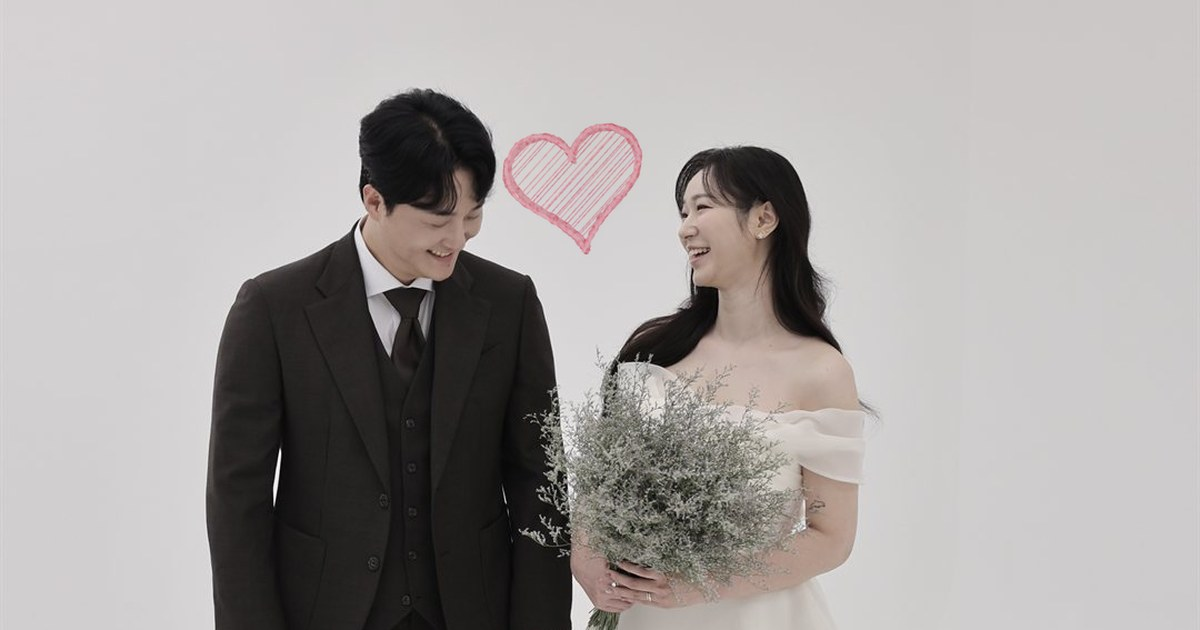
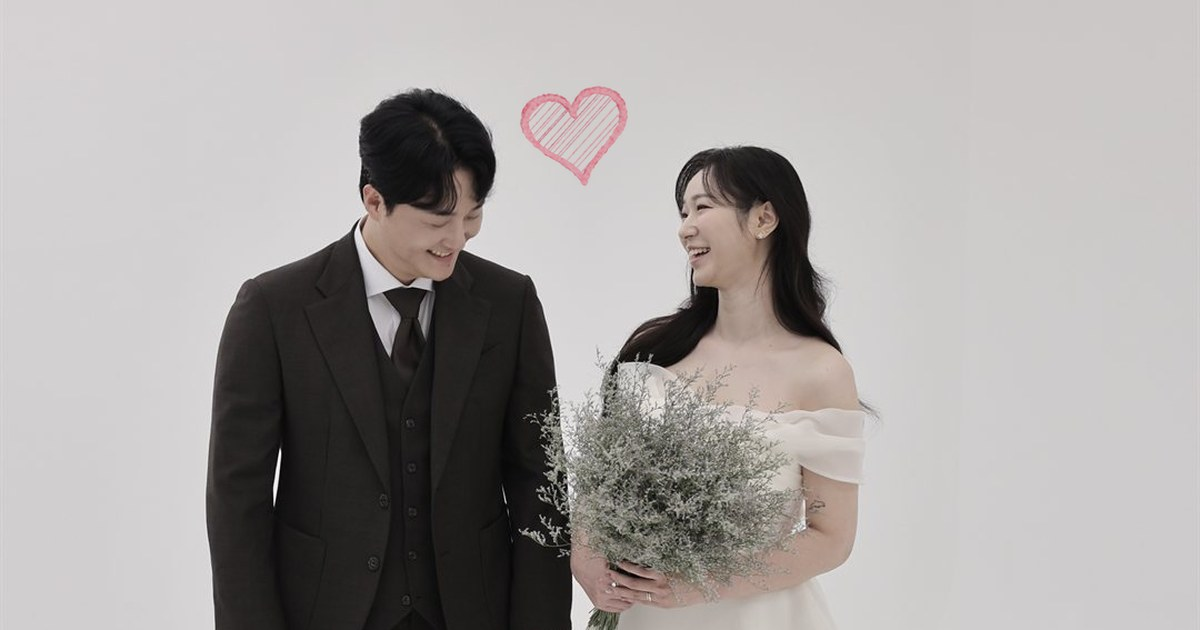
'아래로 넘겨주세요' 안내 삭제, 썸네일 하트를 작게 하고 위로 이동

Changed region(s): [[0.4008, 0.1206, 0.555, 0.3921]]

diff --git a/style.css b/style.css
@@ -179,12 +179,6 @@ button, input, textarea { font: inherit; color: inherit; }
 .hero__tagline { white-space: pre-line; font: 500 16px/1.7 var(--sans); color: var(--fg); }
 .hero__when { margin-top: 16px; color: var(--orange); font-weight: 500; font-size: 14px; }
 .hero__venue { color: var(--dim); font-size: 14px; }
-.scroll-hint {
-  position: absolute; left: 50%; bottom: 16px; transform: translateX(-50%);
-  background: none; border: 0; color: var(--dim); font-size: 12px; cursor: pointer; white-space: nowrap;
-  animation: bob 2s ease-in-out infinite;
-}
-@keyframes bob { 50% { translate: 0 5px; } }
 
 /* ============ Blocks ============ */
 .block { padding: 40px 20px; border-top: 1px dashed var(--line); }
@@ -348,5 +342,5 @@ button, input, textarea { font: inherit; color: inherit; }
 .lightbox img { max-height: 90vh; border-radius: 6px; border: 1px solid var(--line); }
 
 @media (prefers-reduced-motion: reduce) {
-  .holo__spin, .holo__layer, .holo__stage, .holo__sweep, .ring, .scroll-hint, .chip { animation: none !important; }
+  .holo__spin, .holo__layer, .holo__stage, .holo__sweep, .ring, .chip { animation: none !important; }
 }

diff --git a/index.html b/index.html
@@ -1,4 +1,4 @@
-<!doctype html>
+<!doctype html>
 <html lang="ko">
 <head>
   <meta charset="utf-8" />
@@ -11,7 +11,7 @@
   <meta property="og:type" content="website" />
   <meta property="og:title" content="주환철 ♥ 김하정 결혼합니다" />
   <meta property="og:description" content="PM과 개발자가 만나 ‘결혼’ 프로젝트를 런칭합니다. 2027.1.31(일) 오후 3:30 · 아벤티움 웨딩홀" />
-  <meta property="og:image" content="https://hcjoo.github.io/my-wedding-2/images/og.jpg?v=2" />
+  <meta property="og:image" content="https://hcjoo.github.io/my-wedding-2/images/og.jpg?v=3" />
   <meta property="og:image:width" content="1200" />
   <meta property="og:image:height" content="630" />
   <meta name="twitter:card" content="summary_large_image" />
@@ -56,7 +56,6 @@
         <p class="hero__venue" id="hero-venue"></p>
       </div>
 
-      <button class="scroll-hint" id="scroll-hint" type="button">↓ 아래로 넘겨주세요</button>
     </section>
 
     <!-- ===== 인사말 ===== -->

diff --git a/script.js b/script.js
@@ -221,10 +221,6 @@ function renderHeroMeta() {
   $("#hero-tagline").textContent = CONFIG.tagline;
   $("#hero-when").textContent = DATE_KO;
   $("#hero-venue").textContent = CONFIG.venue.name;
-  $("#scroll-hint").addEventListener("click", (e) => {
-    e.stopPropagation();
-    $("#invite").scrollIntoView({ behavior: "smooth" });
-  });
 }
 
 /* ---------- 초대합니다 ---------- */
